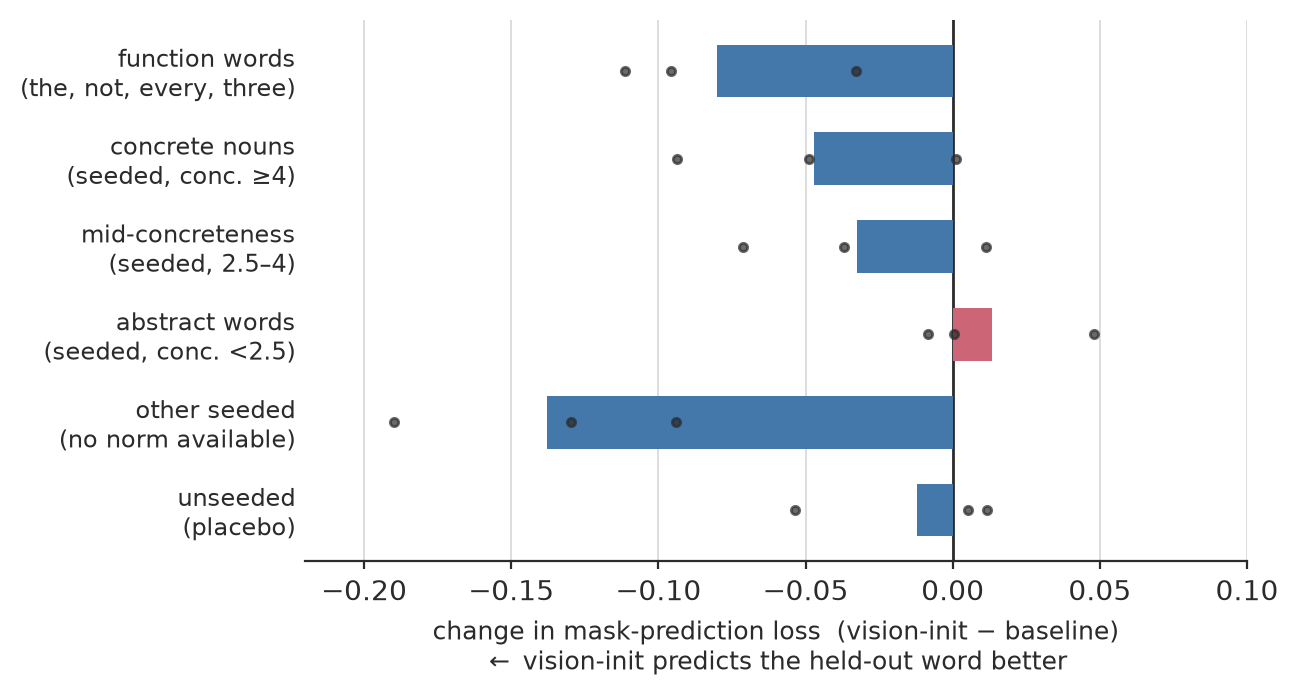
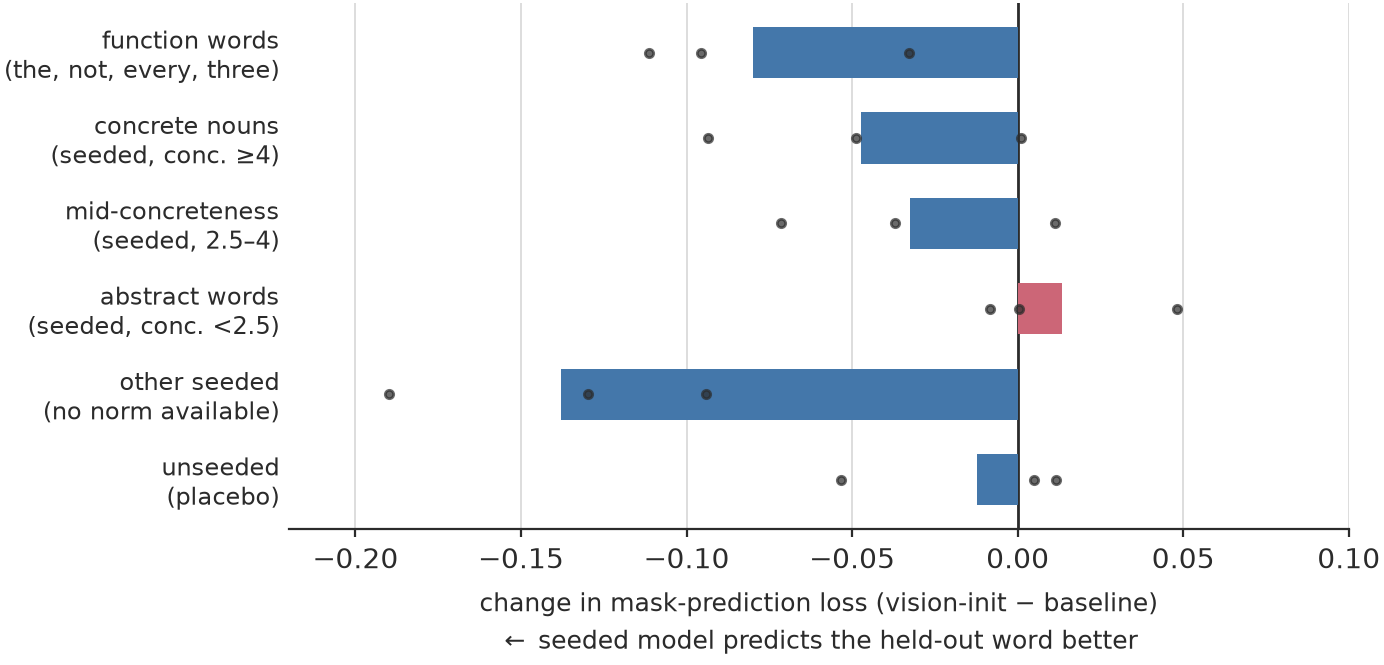
Fix clipped x-axis label in Fig 7 (abstract_mlm)

diff --git a/eval/plot_abstract_mlm.py b/eval/plot_abstract_mlm.py
@@ -1,10 +1,12 @@
 #!/usr/bin/env python3
-"""Redraw held-out mask-prediction loss by token class (clearer labels).
+"""Redraw held-out mask-prediction loss by token class.
+
 Reads eval/mlm_class_results.json; writes eval/plots/abstract_mlm.{pdf,png}.
 Run from the repo root:  python eval/plot_abstract_mlm.py
 """
 import json
 from pathlib import Path
+
 import numpy as np
 import matplotlib
 matplotlib.use("Agg")
@@ -34,10 +36,10 @@ plt.rcParams.update({
     "text.color": INK, "xtick.color": INK, "ytick.color": INK,
     "axes.spines.top": False, "axes.spines.right": False,
     "axes.spines.left": False, "axes.axisbelow": True,
-    "savefig.dpi": 200, "savefig.bbox": "tight", "font.family": "DejaVu Sans",
+    "savefig.dpi": 200, "font.family": "DejaVu Sans",
 })
 
-fig, ax = plt.subplots(figsize=(6.6, 3.6))
+fig, ax = plt.subplots(figsize=(7.0, 3.4))
 y = np.arange(len(names))[::-1]
 colors = [BLUE if m < 0 else RED for m in means]
 ax.barh(y, means, color=colors, height=0.6, zorder=3)
@@ -49,15 +51,19 @@ ax.set_yticks(y)
 ax.set_yticklabels(names, fontsize=8.8)
 ax.tick_params(axis="y", length=0)
 ax.tick_params(axis="x", length=3, color=INK)
-ax.set_xlabel(
-    "change in mask-prediction loss  (vision-init $-$ baseline)\n"
-    "$\\leftarrow$ vision-init predicts the held-out word better",
-    fontsize=9)
+
+# Two short centered lines. Each is well inside the axes width, so neither
+# can run off the canvas the way the old single long line did.
+ax.set_xlabel("change in mask-prediction loss (vision-init $-$ baseline)\n"
+              "$\\leftarrow$ seeded model predicts the held-out word better",
+              fontsize=9, linespacing=1.5)
+
 ax.set_xlim(-0.22, 0.10)
-fig.tight_layout()
+fig.tight_layout(pad=0.4)
 
 out = Path("eval/plots")
 out.mkdir(parents=True, exist_ok=True)
-fig.savefig(out / "abstract_mlm.pdf")
-fig.savefig(out / "abstract_mlm.png", dpi=200)
-print("wrote eval/plots/abstract_mlm.{pdf,png}")
+fig.savefig(out / "abstract_mlm.pdf", bbox_inches="tight", pad_inches=0.02)
+fig.savefig(out / "abstract_mlm.png", dpi=200,
+            bbox_inches="tight", pad_inches=0.02)
+print("wrote eval/plots/abstract_mlm.pdf and .png")
